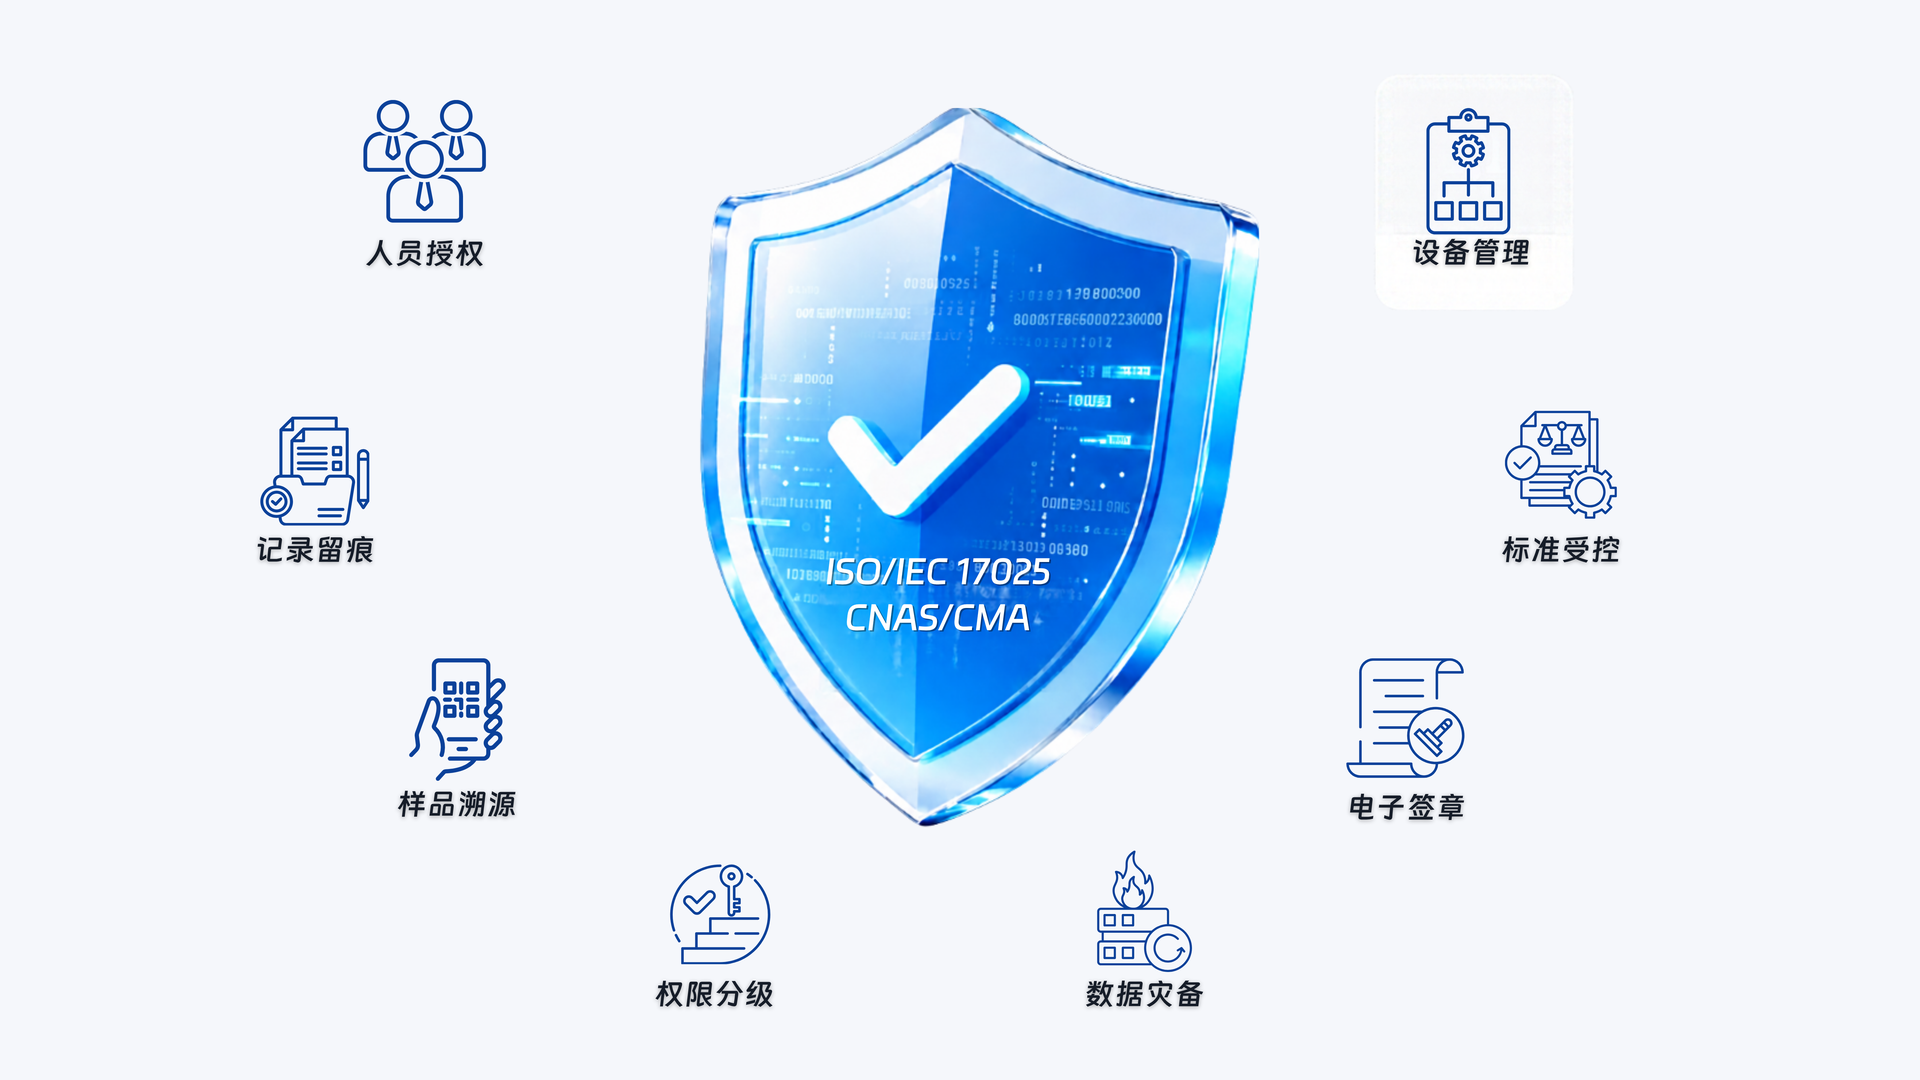
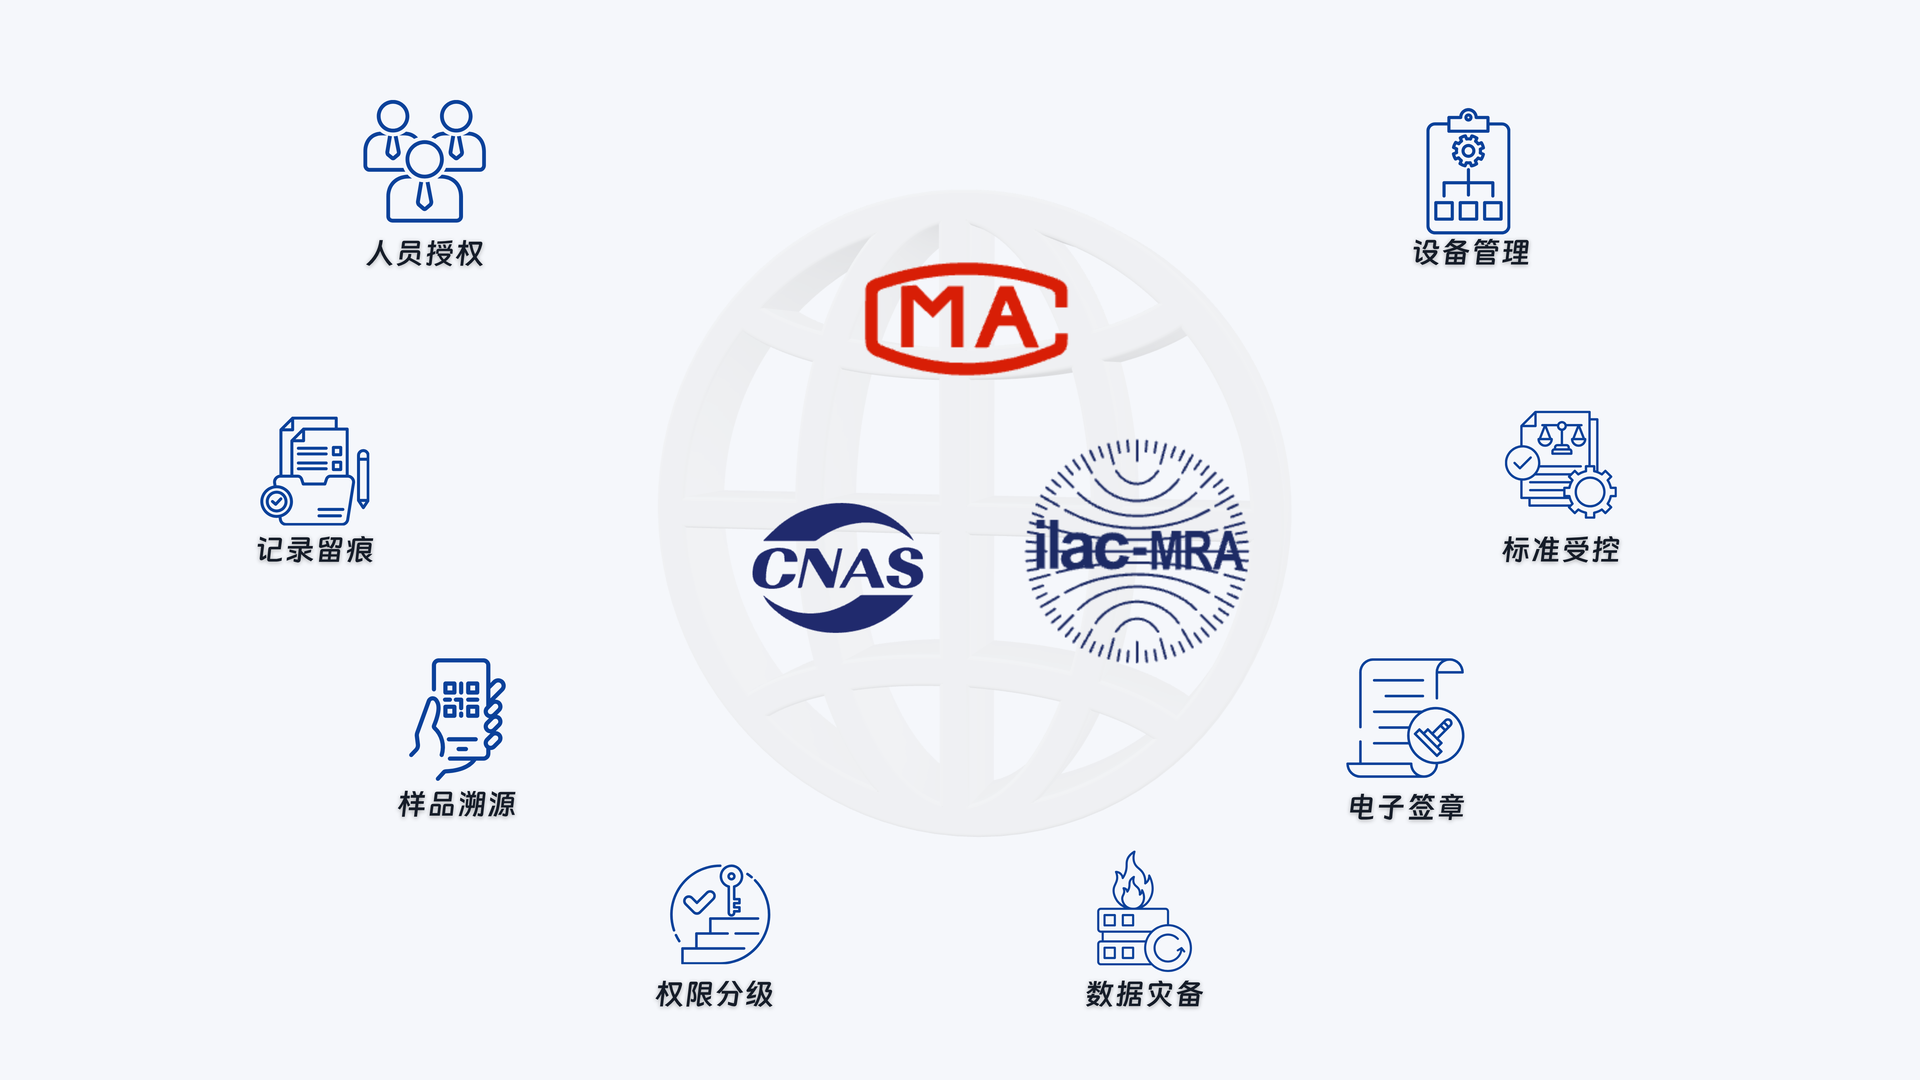
feat: 更换优势5配图为认证体系地球仪
用带 MA、CNAS、ilac-MRA 的地球仪图替换原盾牌插图，底色与页面背景一致。

Changed region(s): [[0.3438, 0.0917, 0.6562, 0.7639]]

diff --git a/shucan-lims-brochure.html b/shucan-lims-brochure.html
@@ -706,7 +706,7 @@
             </ul>
           </div>
           <div class="visual">
-            <img class="illu" src="assets/brochure/18-cnas.png?v=shield3" alt="蓝色盾牌中间是 ISO/IEC 17025 与 CNAS/CMA，周围是人员授权、设备管理、记录留痕、标准受控、样品溯源、电子签章、权限分级、数据灾备。" />
+            <img class="illu" src="assets/brochure/18-cnas.png?v=adv5d" alt="浅色地球仪上是 MA、CNAS 和 ilac-MRA 标志，周围是人员授权、设备管理、记录留痕、标准受控、样品溯源、电子签章、权限分级、数据灾备。" />
           </div>
         </article>
         <article class="adv flip" id="adv-wall">
